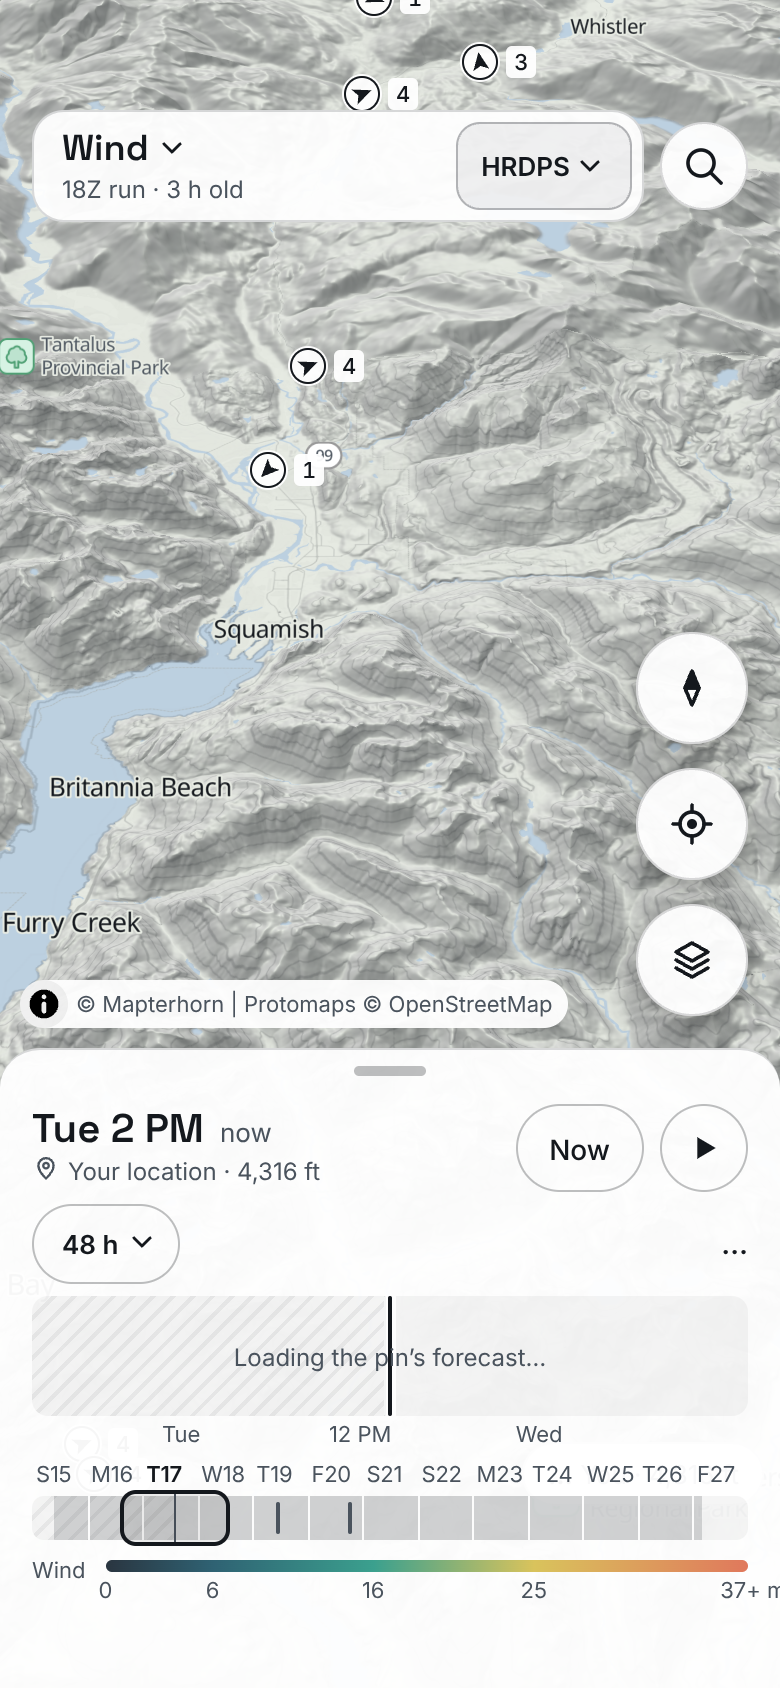
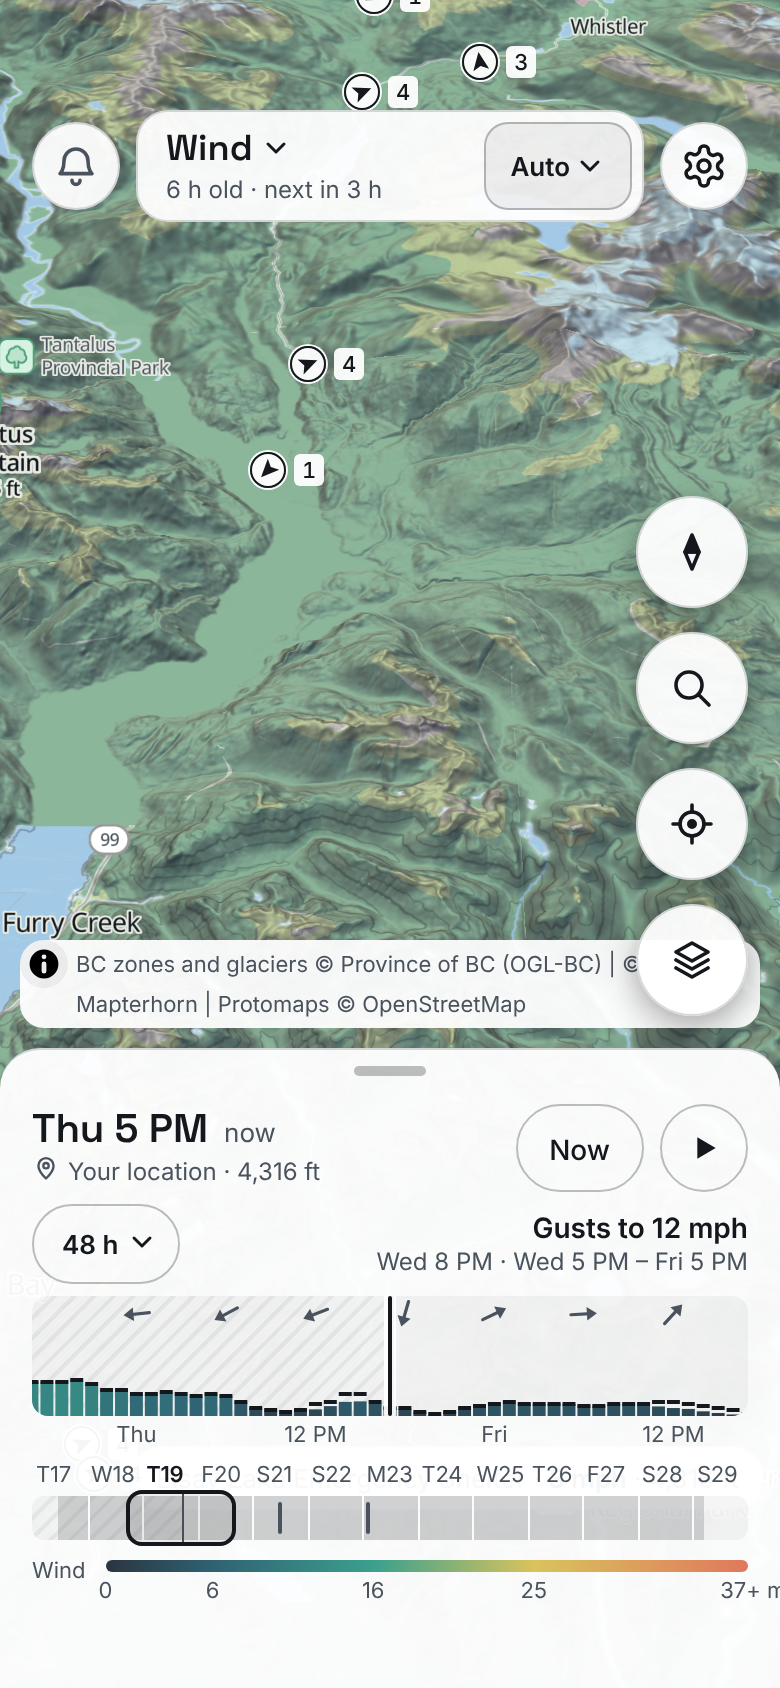
Weather: handoff note for the map line buttons; details test follows the removed line setting
Claude-Session: https://claude.ai/code/session_01U8H2de4g2FCPXbkgCfYGMW

diff --git a/e2e/details.spec.ts b/e2e/details.spec.ts
@@ -66,10 +66,9 @@ test('precipitation details: totals by elevation, snow ratio and type shown', as
   await panel.getByRole('button', { name: '10:1' }).click();
   await expect(d.locator('.details-footer')).toContainText('Snow ratio 10:1 (fixed)');
   await panel.getByRole('button', { name: 'Rain only' }).click();
-  await panel.getByRole('button', { name: 'Off' }).click();
   await page.reload();
   await expect(page.locator('body')).toHaveAttribute('data-series', 'ready', { timeout: 360_000 });
   const saved = await page.evaluate(() => (JSON.parse(localStorage.getItem('tempest.prefs.v1')!) as { layerSettings: Record<string, Record<string, unknown>> }).layerSettings.precipitation);
-  expect(saved).toEqual({ ratio: '10:1', type: 'rain', line: 'off' });
+  expect(saved).toEqual({ ratio: '10:1', type: 'rain' });
   expect(errors).toEqual([]);
 });

diff --git a/docs/handoffs/weather/2026-11-26-map-lines.md b/docs/handoffs/weather/2026-11-26-map-lines.md
@@ -1,0 +1,59 @@
+# Weather on the map: the Freezing line and Rain/snow line buttons
+
+2026-11-26 · branch `claude/tempest-weather` · ready to integrate
+
+## What changed
+The two buttons the Interface chat added to the map panel ("Freezing line" and
+"Rain/snow line") now draw their lines. **Please keep all of this when
+integrating.**
+
+- **Freezing line:** dashed, at 0 °C, labelled with its height.
+- **Rain/snow line:** solid, labelled "Snow line" with its height (where the wet-bulb temperature falls to 0.5 °C).
+- Both can be on at once. They show on the **temperature** and **precipitation** maps. Both are off until the button is tapped (the panel remembers the choice).
+- A tap redraws at once; the lines follow the light and dark theme.
+- **The old per-layer line settings are removed** so each line has one control:
+  Temperature's "Freezing level line" toggle and Precipitation's "Line on the
+  map" (Off / Snow line / 0 °C). Do not bring them back from older code.
+- **Precipitation colours now always follow the wet-bulb rule** (before, "Off"
+  and "0 °C" fell back to the model's own rain/snow split).
+- Turning on the rain/snow line on the temperature map also asks for humidity
+  at the map nodes (the same request the precipitation map already makes).
+
+Picture: `2026-11-26-map-lines-temperature.png` (390 × 844, recorded weather, both lines on, zoomed to Howe Sound area). There is no v8 screen for these lines.
+
+## What to try after it is integrated
+1. Open Map panel, tap "Freezing line": a dashed line appears on Temperature and Precipitation. Tap again: it goes.
+2. Tap "Rain/snow line": a solid line with "Snow line · … m". Both on: both visible.
+3. Reload: the buttons keep their state.
+4. Open Temperature and Precipitation settings: no line options there any more.
+5. Switch to Wind or Radar: no lines.
+
+## Files
+- **Own files changed:** `app/weather/fills.ts`, `app/map/freezing-line.ts`, `layers/temperature/details.ts`, `layers/precipitation/details.ts`
+- **Not mine, changed to match:** `e2e/details.spec.ts` (Interface's test). The Temperature and Precipitation settings steps no longer click the removed line settings, and expect only `{ map: 'feels' }` and `{ ratio, type }` to be saved.
+- **Shared files changed:** none.
+- **New files no section owns yet:** none from this work. (The check also lists `public/zones/*` and `tools/build-*.mjs`; those came in with the Maps branch.)
+
+## Connection points
+- **Used:** `features` from `app/shell/feature-switches.ts` (Interface): `features.get('freezingLine' | 'snowLine')` and `features.onChange`.
+- **Needs main to contain the Interface branch first.** `feature-switches.ts` and the map panel buttons live only on `claude/tempest-interface`; my branch merged it to build on. **Integrate Interface before Weather.**
+- **Changed:** `setLine(grid)` in fills.ts no longer takes a line kind; `levelLine(grid, mosaic, kinds[])` returns `lines: { '0c', wetbulb }`. Two new map sources/layers: `snow-line` and `snow-line-label` beside `freezing-line` and `freezing-line-label` (added in `addFreezingLineLayers`; `app/main.ts` call unchanged).
+- **Needs from other sections:** none.
+
+## Checks
+- `npm run check:section -- weather`: **fails only the area check**, because my branch contains Interface's and Maps' work (merged in so the buttons exist). Every file I changed is mine, apart from the one test line above. Once Interface is in main, the area check should pass.
+- Typecheck, lint and unit tests (325): pass.
+- Browser tests on recorded weather (temperature, details, wind, radar, stations): both details tests and stations pass. **Three fail on this cloud machine: temperature, wind and radar**, all at the pin readout line (it shows only "1,316 m", not the model's numbers). The temperature one **fails the same way on the Interface branch without my changes**, so it is not from the lines; I did not rerun wind and radar there, they fail at the same readout. Worth a look by the lead (the readout may be waiting on something the recorded set lacks).
+- New tests added: none. Gap: no test yet that the buttons draw the lines. (I checked it by hand: 7 freezing and 12 snow features rendered.)
+
+## Kaden's rules added or changed
+None given for this section yet.
+
+## Decisions made, and anything unsure
+- The snow line is solid and the freezing line dashed so they stay apart; both are the same ink colour. Colours are Kaden's call.
+- Doing both lines in one pass keeps the cost near the old single line; not yet measured on GitHub's slower test machines (the lead asked for that before handoffs).
+- Check on a phone: both lines at once on a busy mountain view.
+
+## Not done yet
+- A test for the line buttons.
+- The wind freeze on slow machines (lead's note, Nov 21) is untouched.
